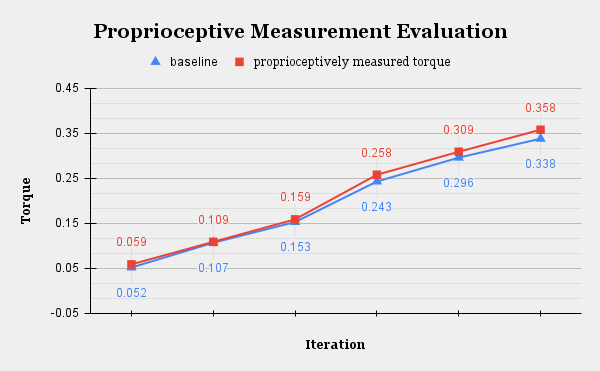
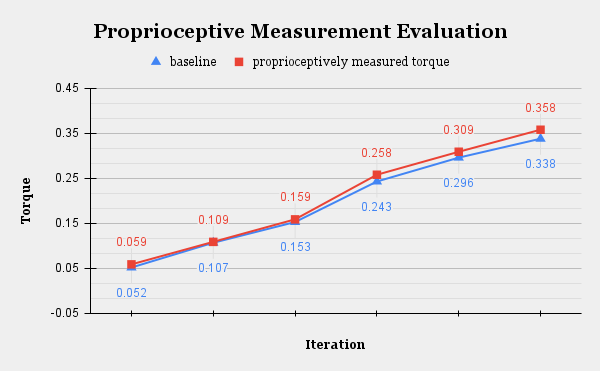
Update:img

Changed region(s): [[0.39, 0.1482, 0.75, 0.1779], [0.24, 0.1482, 0.36, 0.1779]]

diff --git a/_posts/2025-03-12-modular-3d-printed-proprioceptive-actuators.md b/_posts/2025-03-12-modular-3d-printed-proprioceptive-actuators.md
@@ -97,7 +97,7 @@ I used FOC Controller, 'drv8302 motor driver' to control the BLDC Motor. Unlike 
 In the Clark/Park Transform which is the one of the process of FOC Algorithm, Three phase current converted to two current state; d-axis and q-axis current. q-axis current is proportional to torque that the motor produce. Thus, external torque(perturbance) can be estimated by measuring q-axis current of the motor. 
 
 ### Experiment
-Gartt ML5210 BLDC Drone Motor + DRV8302 + AS5600 Encoder + ESP-Wroom-32
+The experiment is conducted by '**Gartt ML5210 BLDC Drone Motor + DRV8302 + AS5600 Encoder + ESP-Wroom-32**' and scale is used for baseline to validate the accuracy of the proprioceptive actuator.
 
 
 ### Evaluation
@@ -109,11 +109,13 @@ Gartt ML5210 BLDC Drone Motor + DRV8302 + AS5600 Encoder + ESP-Wroom-32
   caption="Evaluation of Proprioceptive Sensing Capacity" 
 %}
 
+Approximately, the error is getting bigger as it produce higher torque. 
+
 
 ## CAN BUS Communication
 I used TJA1051T to enable CAN BUS Communication which enables communicate between other controllers(MCU). This is essential for using multiple actuators system like locomotive & manipulator systems.
 
-## BOM & resources of Actuators 3types(Basic, Lite, Enhenced)
+## BOM & resources for 3 Types of Actuators (Basic, Lite and Enhanced)
 
 ### 1. QDD Actautor Basic
 ---
@@ -332,14 +334,14 @@ I used TJA1051T to enable CAN BUS Communication which enables communicate betwee
 
 ---
 
-### 3. QDD Actuator Enhenced
+### 3. QDD Actuator Enhanced
 ---
 
 {% include figure.liquid loading="eager" path="assets/img/actuator-v2/image-1.png" width="100%" max-width="600px" alt="Actuator image 2" class="img-fluid rounded z-depth-1" %}
 {% include figure.liquid loading="eager" path="assets/img/actuator-v2/image.png" width="100%" max-width="600px" alt="Actuator image 2" class="img-fluid rounded z-depth-1" %}
 {% include figure.liquid loading="eager" path="assets/img/actuator-v2/image-2.png" width="100%" max-width="600px" alt="Actuator image 2" class="img-fluid rounded z-depth-1" %}
 
-#### BOM of QDD Actuator Enhenced
+#### BOM of QDD Actuator Enhanced
 <div class="table-responsive">
   <table class="table table-sm table-hover table-bordered">
     <thead class="thead-light">
